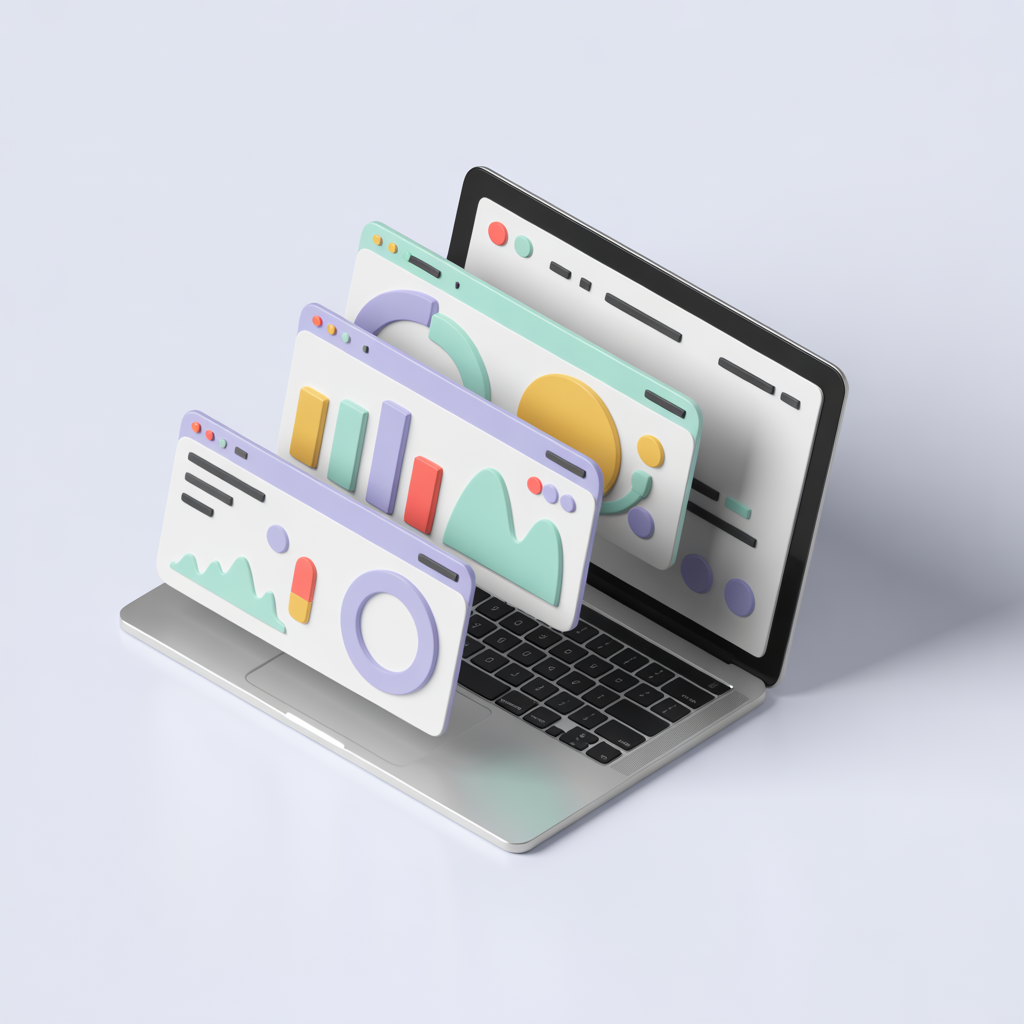
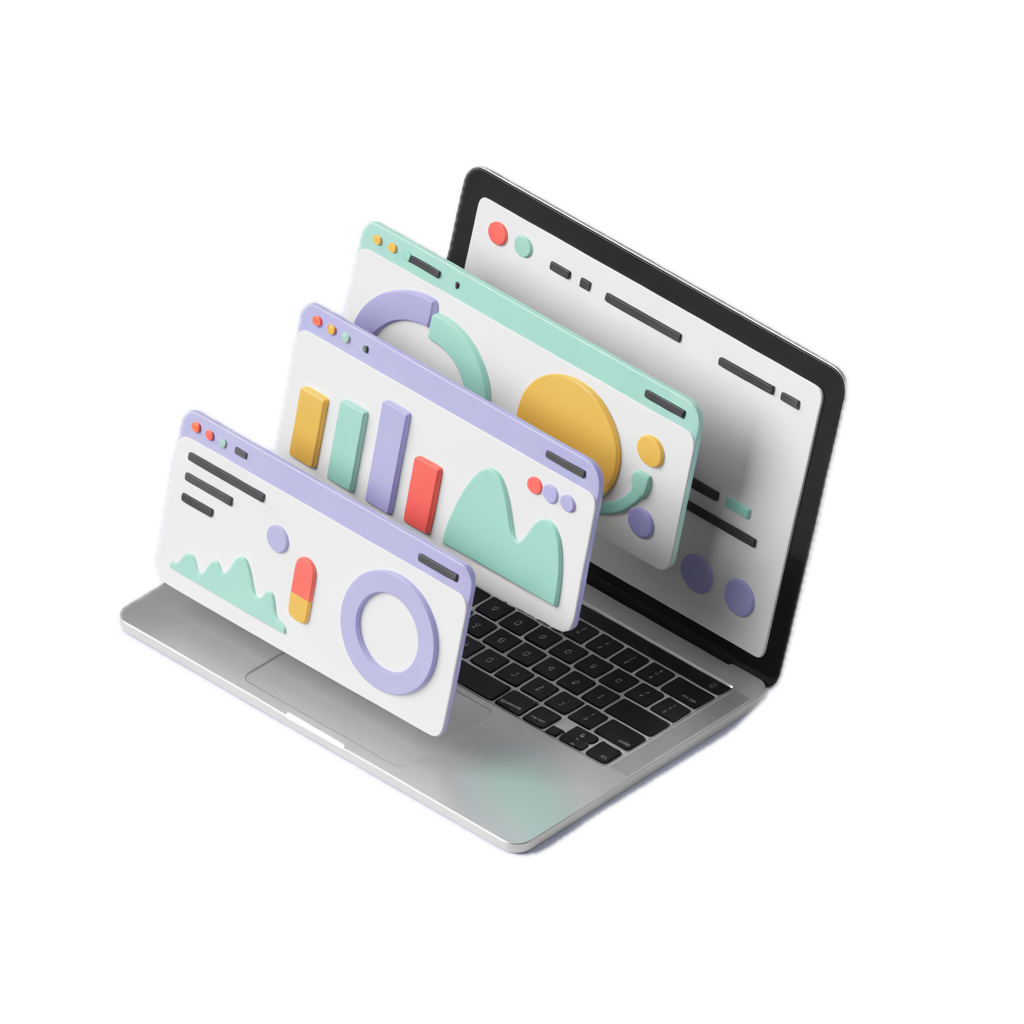
Update illustrations with true transparent versions and layout fixes

diff --git a/apps/web/src/features/create-generation/GenerationTypeStep.tsx b/apps/web/src/features/create-generation/GenerationTypeStep.tsx
@@ -21,14 +21,14 @@ const typeOptions: (GenerationTypeOption & { illustration?: string })[] = [
     title: 'Создать текстовую работу',
     description: 'Любой вид работы с реальными источниками, оформлением по ГОСТу и защитой от проверки на ИИ',
     icon: '',
-    illustration: '/assets/illustrations/text-work.png'
+    illustration: '/assets/illustrations/text-work.png?v=9'
   },
   {
     type: 'presentation',
     title: 'Подготовить презентацию',
     description: 'презентация по заданной теме в разных стилях оформления',
     icon: '',
-    illustration: '/assets/illustrations/presentation.png'
+    illustration: '/assets/illustrations/presentation.png?v=9'
   },
   {
     type: 'task',
@@ -162,7 +162,7 @@ const stepStyles = `
   width: 100%;
   min-height: 200px;
   padding: var(--spacing-24);
-  background: var(--color-surface-base);
+  background: #ffffff !important;
   border: 1px solid var(--color-border-base);
   border-radius: var(--radius-xl);
   text-align: left;
@@ -172,6 +172,7 @@ const stepStyles = `
   display: flex;
   flex-direction: column;
   overflow: hidden;
+  isolation: isolate;
 }
 
 .wizard-type-card:hover {
@@ -193,7 +194,7 @@ const stepStyles = `
   display: flex;
   flex-direction: column;
   gap: var(--spacing-8);
-  max-width: 75%; /* Ограничиваем ширину текста, чтобы не налезал на картинку */
+  max-width: 70%;
 }
 
 .wizard-type-card__title {
@@ -213,14 +214,13 @@ const stepStyles = `
   position: absolute;
   bottom: -15px;
   right: -15px;
-  width: 140px;
-  height: 140px;
+  width: 150px;
+  height: 150px;
   display: flex;
   align-items: flex-end;
   justify-content: flex-end;
   pointer-events: none;
   z-index: 1;
-  opacity: 0.9;
 }
 
 .wizard-type-card__illustration img {
